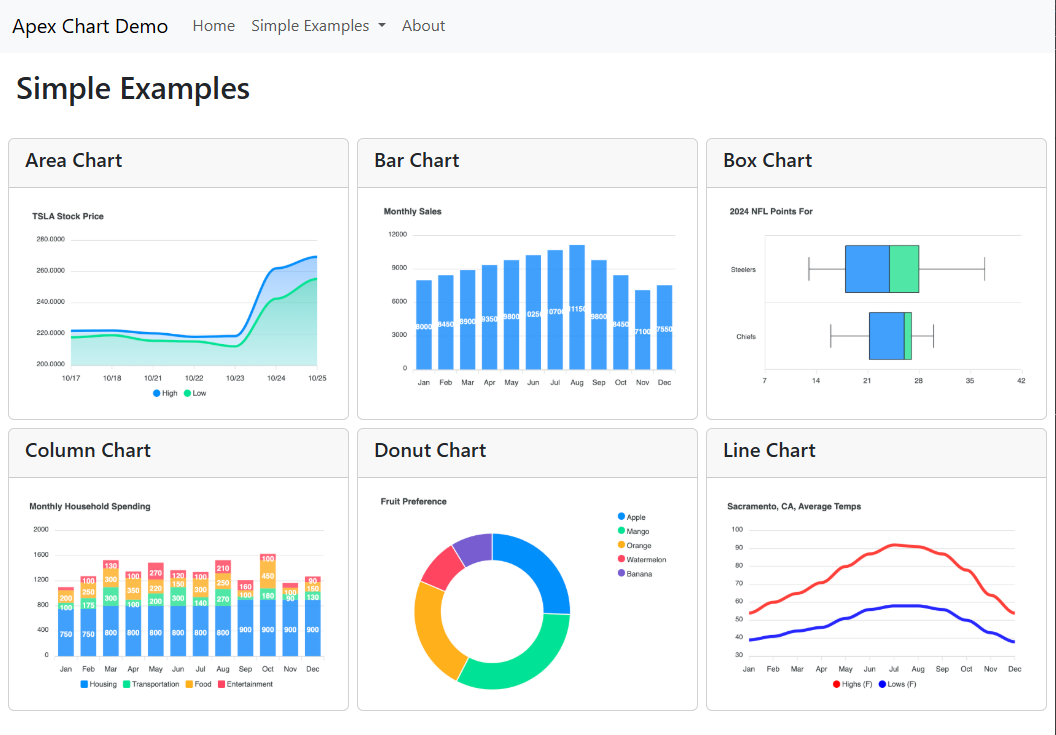
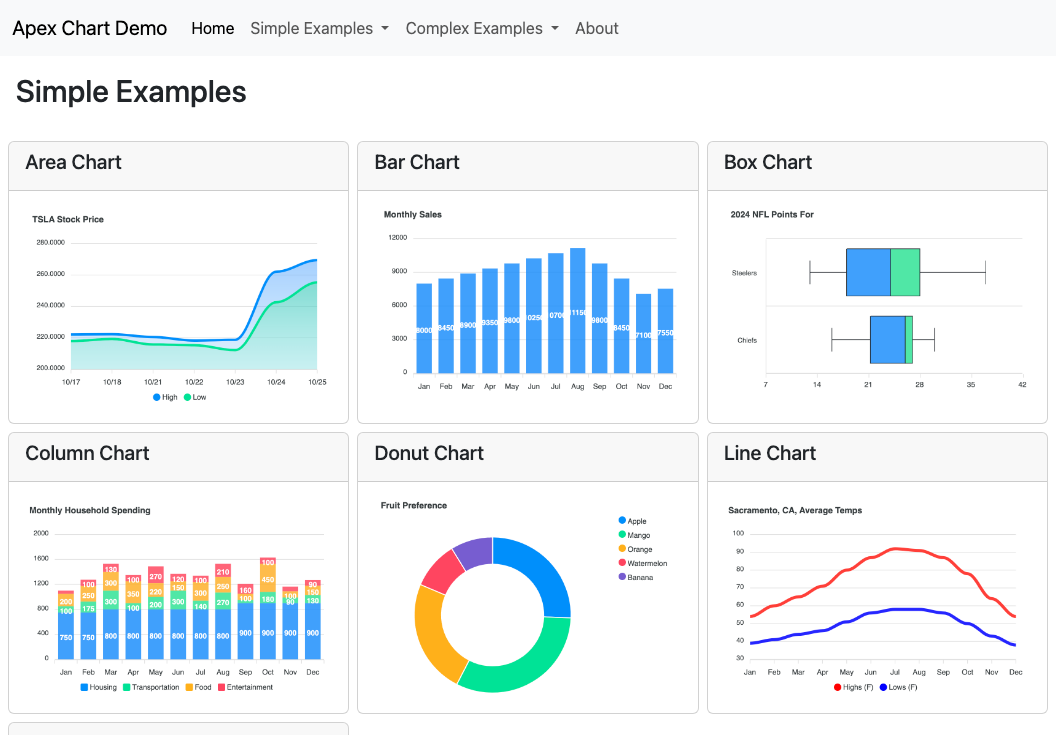
Polish: nav dropdown fix, complex chart toggles, About page, screenshot
- AppHeader: fix dropdowns staying open. Bootstrap closes them via a
  bubbling document click, but the ApexCharts SVG stops propagation so
  chart clicks never reach it. Add a capture-phase outside-click handler
  and close menus on route change.
- ComplexAreaChart / Kitchen Sink page: turn the near-duplicate of the
  basic area chart into a real "kitchen sink" with live switches
  (toolbar, data labels, zoom, markers, gradient fill, smooth curve,
  grid) that reactively reconfigure the chart via computed options.
- AboutView: add an overview of the project, the tech stack, and a link
  back to the GitHub repo (was a bare placeholder).
- Refresh images/apex-chart-demo.png to reflect the current nav/content.

diff --git a/vue/src/views/AboutView.vue b/vue/src/views/AboutView.vue
@@ -1,5 +1,39 @@
 <template>
   <div>
-    <h1>About page</h1>
+    <h1 class="p-3">About</h1>
+    <div class="container-fluid p-2">
+      <div class="row">
+        <div class="col-lg-8">
+          <p>
+            This project is a focused, copy-pasteable reference for building data-driven charts with
+            <a href="https://vuejs.org/" target="_blank" rel="noopener">Vue 3</a>,
+            <a href="https://apexcharts.com/" target="_blank" rel="noopener">ApexCharts</a> (via the
+            <code>vue3-apexcharts</code> wrapper), and
+            <a href="https://getbootstrap.com/" target="_blank" rel="noopener">Bootstrap 5</a>.
+          </p>
+          <p>
+            Each page is a self-contained example of one chart type, written as a small Vue
+            component you can lift straight into your own project. Use the
+            <strong>Simple Examples</strong> and <strong>Complex Examples</strong> menus above to
+            browse them. The app is written in TypeScript, built with Vite, and deployed to GitHub
+            Pages.
+          </p>
+          <p>
+            The source, including a step-by-step tutorial for setting this up from scratch, lives on
+            GitHub:
+          </p>
+          <p>
+            <a
+              class="btn btn-primary"
+              href="https://github.com/ccozad/vue3-apex-charts-reference"
+              target="_blank"
+              rel="noopener"
+            >
+              View the project on GitHub
+            </a>
+          </p>
+        </div>
+      </div>
+    </div>
   </div>
 </template>

diff --git a/vue/src/views/KitchenSinkAreaChartExample.vue b/vue/src/views/KitchenSinkAreaChartExample.vue
@@ -1,8 +1,26 @@
 <script setup lang="ts">
 import ComplexAreaChart from '@/components/ComplexAreaChart.vue'
-import { ref } from 'vue'
+import { reactive } from 'vue'
 
-const showToolbar = ref(false)
+const settings = reactive({
+  showToolbar: false,
+  showDataLabels: false,
+  enableZoom: true,
+  showMarkers: true,
+  gradientFill: true,
+  smoothCurve: true,
+  showGrid: true
+})
+
+const toggles = [
+  { key: 'showToolbar', label: 'Toolbar' },
+  { key: 'showDataLabels', label: 'Data labels' },
+  { key: 'enableZoom', label: 'Zoom' },
+  { key: 'showMarkers', label: 'Markers' },
+  { key: 'gradientFill', label: 'Gradient fill' },
+  { key: 'smoothCurve', label: 'Smooth curve' },
+  { key: 'showGrid', label: 'Grid' }
+] as const
 </script>
 
 <template>
@@ -11,18 +29,21 @@ const showToolbar = ref(false)
     <div class="container-fluid p-2">
       <div class="row">
         <div class="col-8">
-          <ComplexAreaChart :showToolbar="showToolbar" />
+          <ComplexAreaChart v-bind="settings" />
         </div>
         <div class="col-4">
+          <h3>Chart options</h3>
+          <p>Toggle options to reconfigure the chart live.</p>
           <form>
-            <div class="form-check">
+            <div class="form-check form-switch" v-for="toggle in toggles" :key="toggle.key">
               <input
                 class="form-check-input"
                 type="checkbox"
-                id="toggleToolbar"
-                v-model="showToolbar"
+                role="switch"
+                :id="toggle.key"
+                v-model="settings[toggle.key]"
               />
-              <label class="form-check-label" for="toggleToolbar"> Show Toolbar </label>
+              <label class="form-check-label" :for="toggle.key">{{ toggle.label }}</label>
             </div>
           </form>
         </div>

diff --git a/vue/src/components/AppHeader.vue b/vue/src/components/AppHeader.vue
@@ -1,7 +1,36 @@
 <script setup lang="ts">
-import { useRoute } from 'vue-router'
+import { onBeforeUnmount, onMounted } from 'vue'
+import { useRoute, useRouter } from 'vue-router'
 
 const route = useRoute()
+const router = useRouter()
+
+// Visually close any open navbar dropdown.
+function closeOpenDropdowns() {
+  document.querySelectorAll('.navbar .dropdown-menu.show').forEach((menu) => {
+    menu.classList.remove('show')
+    const toggle = menu.parentElement?.querySelector('.dropdown-toggle')
+    toggle?.classList.remove('show')
+    toggle?.setAttribute('aria-expanded', 'false')
+  })
+}
+
+// Bootstrap closes dropdowns via a bubbling document-click listener, but the
+// ApexCharts SVG calls stopPropagation, so clicks on a chart never reach it and
+// the menu stays open. Listen in the capture phase so an outside click always
+// closes the menu, regardless of what swallows the event later.
+function handleOutsideClick(event: MouseEvent) {
+  const target = event.target as Element | null
+  if (!target?.closest('.navbar .dropdown')) {
+    closeOpenDropdowns()
+  }
+}
+
+onMounted(() => document.addEventListener('click', handleOutsideClick, true))
+onBeforeUnmount(() => document.removeEventListener('click', handleOutsideClick, true))
+
+// SPA navigation doesn't reload, so close the menu after picking an item.
+router.afterEach(() => closeOpenDropdowns())
 </script>
 
 <template>

diff --git a/vue/src/components/ComplexAreaChart.vue b/vue/src/components/ComplexAreaChart.vue
@@ -2,21 +2,44 @@
 import { computed, ref } from 'vue'
 import type { ApexAxisChartSeries, ApexOptions } from 'apexcharts'
 
-const props = defineProps<{ showToolbar?: boolean }>()
+const props = defineProps<{
+  showToolbar?: boolean
+  showDataLabels?: boolean
+  enableZoom?: boolean
+  showMarkers?: boolean
+  gradientFill?: boolean
+  smoothCurve?: boolean
+  showGrid?: boolean
+}>()
 
-// Computed so toggling showToolbar reactively updates the chart toolbar.
+// Computed so each toggle reactively reconfigures the chart.
 const options = computed<ApexOptions>(() => ({
   chart: {
     type: 'area',
     toolbar: {
       show: props.showToolbar
+    },
+    zoom: {
+      enabled: props.enableZoom
     }
   },
   xaxis: {
     categories: ['10/17', '10/18', '10/21', '10/22', '10/23', '10/24', '10/25']
   },
   dataLabels: {
-    enabled: false
+    enabled: props.showDataLabels
+  },
+  stroke: {
+    curve: props.smoothCurve ? 'smooth' : 'straight'
+  },
+  markers: {
+    size: props.showMarkers ? 5 : 0
+  },
+  fill: {
+    type: props.gradientFill ? 'gradient' : 'solid'
+  },
+  grid: {
+    show: props.showGrid
   },
   title: {
     text: 'TSLA Stock Price'